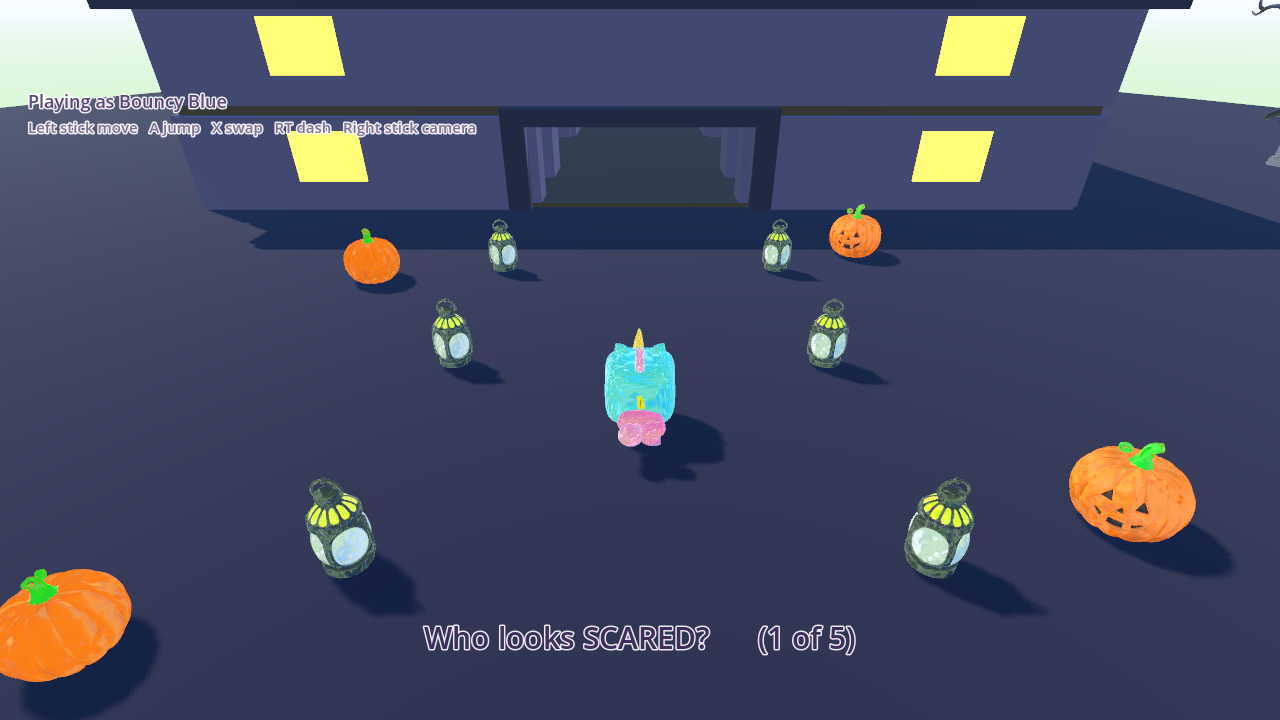
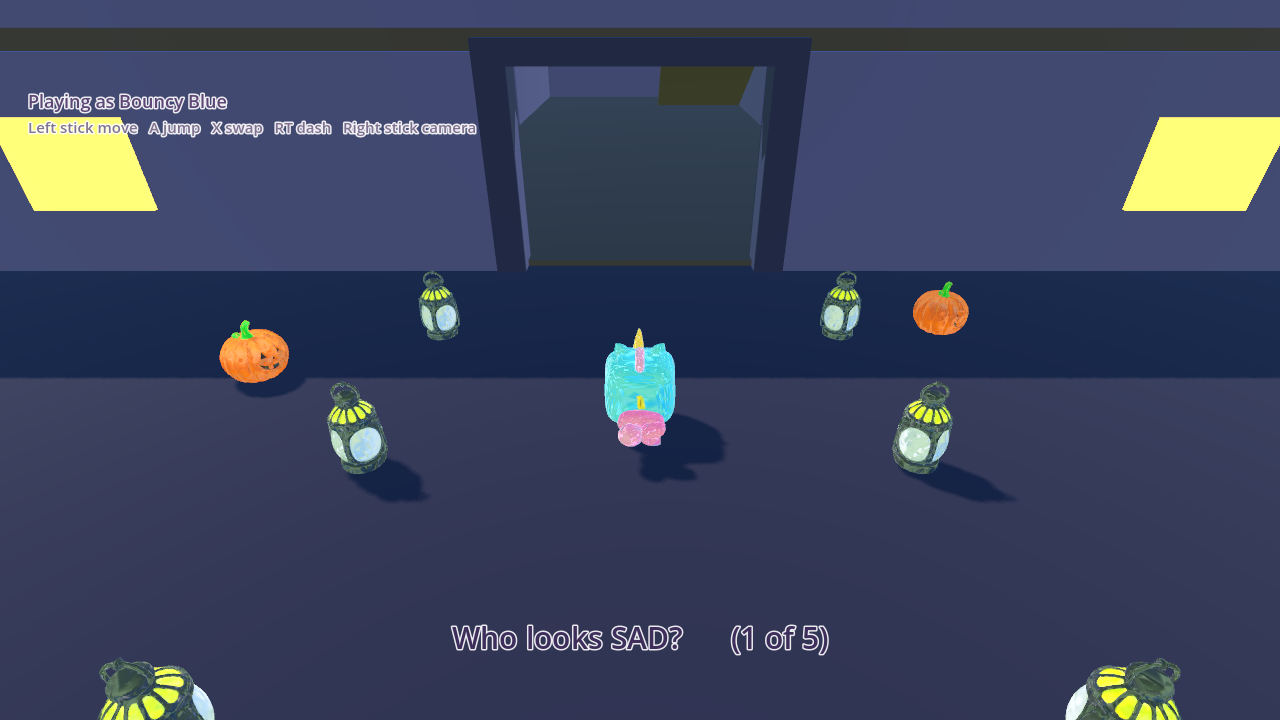
Rainbow Sparkle Squad: scale the Haunted House so the ghosts fit inside it
Reported from play: the ghosts' heads were coming through the floor. From the
landing you could see the top of every ground-floor ghost sticking up through
the boards you were standing on.

A ghost is 2.13 m from the floor to the top of its head - 0.4 m of hover, a
1.6 m body and 0.13 m of bob - and the ceiling was 1.60 m. It was never going to
fit. Scaling the ghosts down would have produced the same house one size smaller
with the same problem waiting for the next thing that grows, so the house grew
instead.

The dimensions chain, and all of them are arithmetic:

  the ghosts set the ceiling      2.75 m, for 0.62 m of clearance at rest
  the ceiling sets the corridor   a 2.75 m wall needs 3.45 m of standoff, so
                                  the corridors are 8 m and the footprint is
                                  21 x 19.5 m
  the camera sets the upper walls 1.90 m, because nothing upstairs has a
                                  ceiling to clear and at 2.50 m the front wall
                                  filled two thirds of the screen

The standoff comes from FollowCamera: a wall d metres away hides the player once
it is taller than 0.75 + 0.58*d above the floor. A cheering ghost stretches to
2.80 m and so overshoots the new ceiling by 5 cm for about a third of a second,
which is not worth an 8 m ceiling to fix.

Shorter upper walls turn out to buy something rather than cost something. An
[…]

diff --git a/rainbow-sparkle-squad/README.md b/rainbow-sparkle-squad/README.md
@@ -100,7 +100,7 @@ Expected, as of the last commit:
 ```
 playtest: 11/11    bunnytest: 5/5        butterflytest: 6/6    blocklandtest: 10/10
 shapecovetest: 11/11   letterlagoontest: 13/13   dinovalleytest: 14/14   safaritest: 14/14
-hauntedhousetest: 27/27
+hauntedhousetest: 28/28
 ```
 
 Every suite exits non-zero on failure. If you add an island, add a suite.
@@ -661,14 +661,34 @@ things holding it up was learned by building the other version first:
    step through the front door and the lid comes away; climb the stairs and it
    is back, with the ground floor open below.
 
-**Wall height is arithmetic, not taste.** A wall `d` metres away hides the
-player once it is taller than `0.75 + 0.58 * d` above the floor — that 0.58 is
-`FollowCamera`'s sight line at its default pitch. At the 1.5 m you can stand
-from a wall while still in a doorway, the ceiling is 1.62 m, which is why the
-walls are 1.60 and 1.55 and the corridors are 4 m wide rather than 3. It is not
-a low wall: the cast are 0.80–0.90 m tall, so 1.60 m is twice the height of the
-character walking past it. The first build used 2.6 m — three times player
-height — and read as a canyon.
+**Every dimension in this house is arithmetic, not taste**, and they chain:
+
+- **The ghosts set the ceiling.** A ghost is 2.13 m from the floor to the top of
+  its head — 0.4 m of hover, a 1.6 m body, 0.13 m of bob — and reaches 2.80 m
+  for a moment mid-cheer, because the squash spring stretches it to 1.42×. The
+  house first shipped with a 1.60 m ceiling, so every ghost downstairs had its
+  head through the floor above, plainly visible from the landing. The ceiling is
+  now 2.75 m: 0.62 m of clearance at rest, and a cheer overshoots by 5 cm for
+  about a third of a second, which nobody will ever see.
+- **The ceiling sets the corridor width.** A wall `d` metres away hides the
+  player once it is taller than `0.75 + 0.58 * d` above the floor — 0.58 being
+  `FollowCamera`'s sight line at its default pitch. A 2.75 m wall therefore
+  needs 3.45 m of clearance, so the corridors are 8 m across and the footprint
+  grew to 21 × 19.5 m to suit.
+- **The upper walls are shorter than the ground floor's**, at 1.90 m. Nothing
+  upstairs has a ceiling to clear, so the camera is the only constraint, and at
+  2.50 m the front wall filled two thirds of the screen. It buys something
+  besides: an upstairs ghost stands 5.13 m against 4.90 m walls, so their heads
+  show over the tops — on a floor whose whole point is hunting for them, seeing
+  where they are from the landing is the difference between searching and
+  wandering.
+- **The eave hangs so its top is flush with the wall top.** Perched on top it
+  adds 13 cm above every upper wall, which is enough to put it right back in the
+  way of the camera the wall height was just tuned to clear — a decorative trim
+  quietly undoing the arithmetic above it.
+
+> Fix the ghosts' size instead and you get the same house back one scale down,
+> with the same problem waiting the next time anything grows. Scale the house.
 
 **The stairs are a ramp**, with the visible treads sitting on it as dressing and
 no colliders of their own. `CharacterBody3D` has no step-up, so a staircase
@@ -750,7 +770,12 @@ and a full push runs. Jump has coyote time (0.12 s) and an input buffer (0.15 s)
 - **The upper storey pops rather than fades** when you step through the front
   door. Fading it would be nicer, and means giving every wall and slab a
   transparent material rather than toggling `visible`.
-- Standing at the front of the upper floor puts the front wall across the lower
-  half of the frame, because the camera is then outside the house looking in
-  over it. The right stick gets you out of it; a steeper default pitch indoors
-  would be the real fix.
+- Standing within about two metres of an upper-floor wall still puts it across
+  the bottom of the frame, because the camera is then outside the house looking
+  in over it. Much better since the upper walls came down to 1.90 m, and the
+  right stick gets you out of it, but a steeper default pitch indoors would be
+  the real fix.
+- **The house is big** — 21 × 19.5 m with 8 m corridors — because the ceiling
+  had to clear the ghosts and the corridor width follows from the ceiling. It
+  reads as a manor rather than a cottage, and the rooms have more floor than
+  they have things in them. More furniture would earn its keep here.
